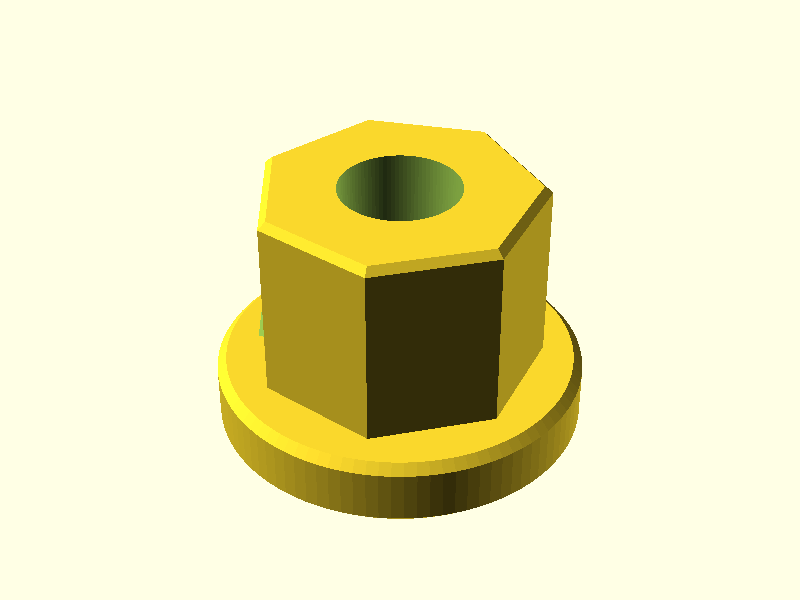
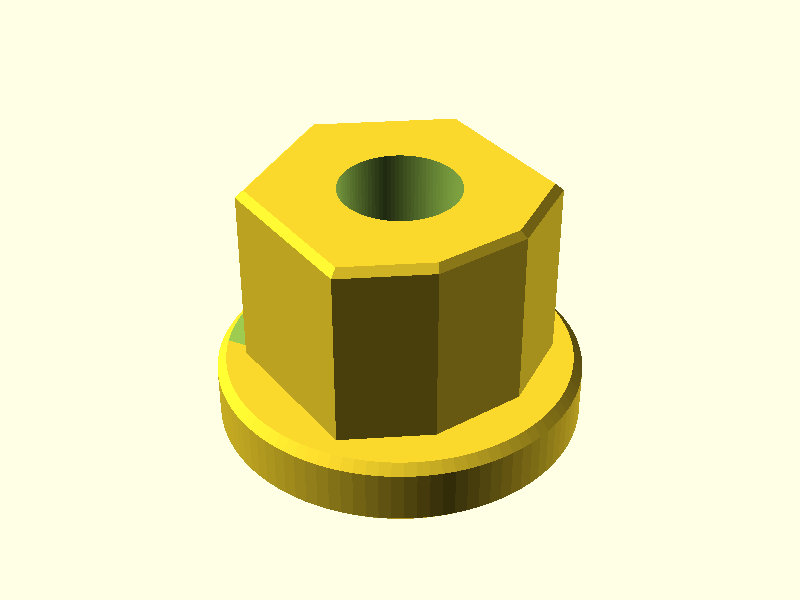
Shower handle adapter: boss is a hexagon with one corner cut flat (14.38 / 15.09 / 15.85), window on the slanted face

diff --git a/shower-handle-holder/README.md b/shower-handle-holder/README.md
@@ -18,8 +18,8 @@ Printable replacement for the small plastic or brass adapter between a shower or
 
 Bottom to top:
 - **Flange** with an **obround socket** (elongated, rounded ends) from below, long axis pointing at the window. The socket has a bevelled entry and goes up to the window ceiling.
-- **7-sided boss** (not a hex) with a **round bore** from the top, down to the window ceiling. A corner points at the window.
-- **Window:** one side only, on a boss **corner**. Its floor is the flange top; its back wall is 11.09 from the opposite face, about 4 mm short of the centre, so it opens into the bottom socket but not the stem bore.
+- **Boss**: a hexagon squeezed to 14.38 across one pair of flats (15.09 across the other two), with the corner opposite the point cut flat, so 7 corners. **Round bore** from the top, down to the window ceiling.
+- **Window:** one side only, on the slanted face from the point to the end of a 14.38 flat. Its floor is the flange top; its back wall is 11.09 from the parallel face opposite, 3.55 short of the centre, so it opens into the bottom socket but not the stem bore.
 
 `cutaway = true` shows the section.
 
@@ -31,11 +31,11 @@ Calipers are best. Write down each number and put it into the matching parameter
 |---|---|---|---|
 | 1 | Flange outside diameter | `flange_d` | 20.0 |
 | 2 | Flange thickness | `flange_h` | 3.8 |
-| 3 | Boss width with calipers, turning the part between readings. It is **7-sided**: an odd count gives the same flat-to-corner width at every turn | `boss_sides`, `hex_af` | **7, 15.09 measured** (15.04 to 15.10) |
+| 3 | Boss: a hexagon with one corner cut flat (7 corners). Short parallel flats; the other two pairs; point to the cut flat opposite | `boss_flats`, `hex_af`, `boss_point_to_flat` | **14.38, 15.09, 15.85 measured** |
 | 4 | Overall height, flange bottom to hex top | `total_h` | **14.05 measured** |
 | 4a | Hex AF at the flange vs at the top. The original looks skewed on purpose, to wedge into the handle | `hex_taper` | 0 |
 | 5 | Window height | `window_h` | 2.6 |
-| 6 | Window width at the corner and at its back wall; depth = back wall to the opposite outer face (caliper jaw inside the window) | `window_w_outer`, `window_w_inner`, `window_back` | 4.5, 3.8, **11.09 measured** |
+| 6 | Window width at the face and at its back wall; depth = back wall to the opposite outer face (caliper jaw inside the window) | `window_w_outer`, `window_w_inner`, `window_back` | 6.5, 6.5, **11.09 measured** |
 | 7 | Bottom socket length (end to end) and width (across the straight sides). Also measure the **stem** itself | `bottom_long`, `bottom_short` | 8.8, 5.2 |
 | 8 | Socket depth. Are the ends true half-circles? Take a photo straight into it | `bottom_depth`, `bottom_shape` | auto, obround |
 | 9 | Socket angle relative to the window (long axis pointing at it, or across it) | `bottom_rot` | 0 |
@@ -48,7 +48,7 @@ Helpful photos: one straight at the window, one straight at the side opposite it
 
 The render prints a summary to check before slicing:
 
-    ECHO: "Adapter: flange 20 x 3.8, 7-sided boss 14.94 wide (15.72 across corners, taper 0) x 10.25, total 14.05, stem bore 6.54, window 4.5->3.8 x 2.6 at 180 deg (corner)"
+    ECHO: "Adapter: flange 20 x 3.8, boss 14.23 / 14.94 flats, point to flat 15.7, taper 0, x 10.25, total 14.05, stem bore 6.54, window 6.5->6.5 x 2.6 at 180 deg, back wall 3.55 short of centre"
 
 ## Fit tests before the full part
 
